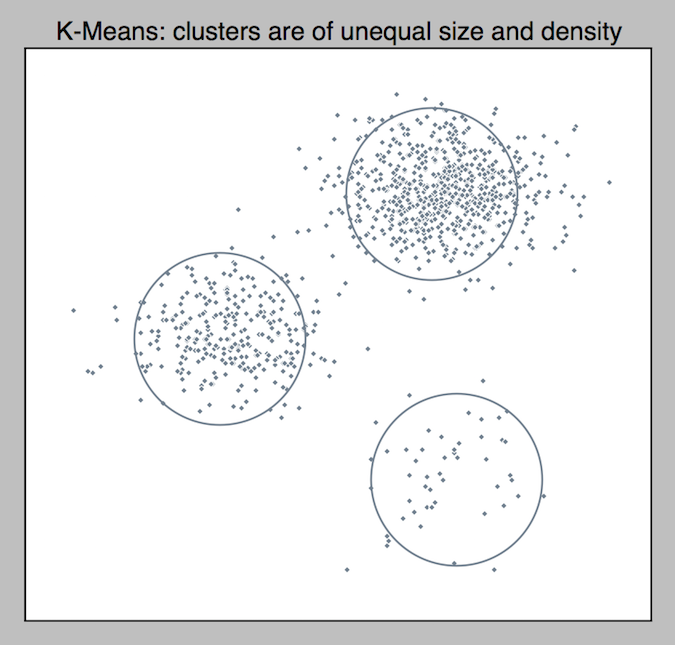
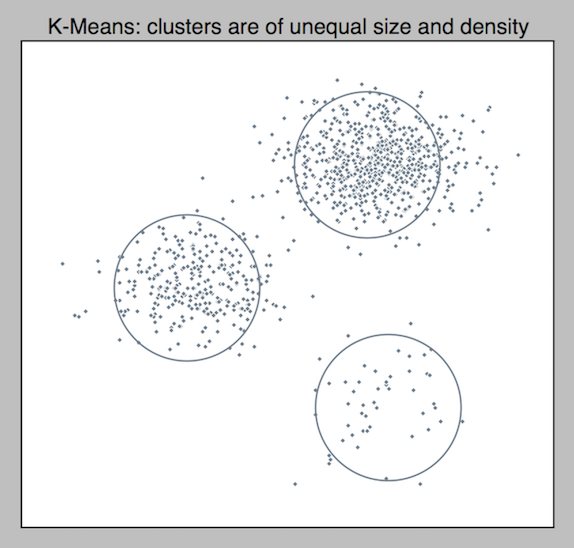
improvements and image resize further

diff --git a/_posts/2017-2-19-cluster-analysis-using-k-means-explained.md b/_posts/2017-2-19-cluster-analysis-using-k-means-explained.md
@@ -9,11 +9,11 @@ Clustering or [cluster analysis](https://en.wikipedia.org/wiki/Cluster_analysis)
 
 <!--more-->
 
-There are various models and techniques for cluster analysis. When we were building the machine learning application, I was *mistakenly searching for 'the best clustering model or technique.'* I wasn't aware that there is no universal best algorithm and the choice depends on your requirements and the dataset. There are [density-based](https://en.wikipedia.org/wiki/Cluster_analysis#Density-based_clustering), [graph based](https://en.wikipedia.org/wiki/HCS_clustering_algorithm) or [centroid based](https://en.wikipedia.org/wiki/Cluster_analysis#Centroid-based_clustering) clustering models. We finally settled on a clustering technique called k-means. This blog post is a brain-dump of everything I've learned about clustering and k-means so far.
+There are various models and techniques for cluster analysis. When I first started, I was *mistakenly searching for 'the best clustering model or technique.'* I wasn't aware that there is no universal best algorithm and the choice depends on your requirements and the dataset. There are [density-based](https://en.wikipedia.org/wiki/Cluster_analysis#Density-based_clustering), [graph based](https://en.wikipedia.org/wiki/HCS_clustering_algorithm) or [centroid based](https://en.wikipedia.org/wiki/Cluster_analysis#Centroid-based_clustering) clustering models. We finally settled on a clustering technique called k-means. This blog post is a brain-dump of everything I've learned about clustering and k-means so far.
 
 # K-means
 
-K-means is a very simple and widely used clustering technique. It divides a dataset into '*k*' clusters. The '*k*' must be supplied by the users, hence the name k-means. It is general purpose and the [algorithm is straigh-forward](http://johnloeber.com/docs/kmeans.html):
+K-means is a very simple and widely used clustering technique. It divides a dataset into '*k*' clusters. The '*k*' must be supplied by the users, hence the name k-means. It is general purpose and the [algorithm is straight-forward](http://johnloeber.com/docs/kmeans.html):
 
 > We call the process k-means clustering because we assume that there are **k** clusters, and each cluster is defined by its center point — its mean. To find these clusters, we use **Lloyd’s Algorithm**: we start out with **k** random centroids. A centroid is simply a datapoint around which we form a cluster. For each centroid, we find the datapoints that are closer to that centroid than to any other centroid. We call that set of datapoints its cluster. Then we take the mean of the cluster, and let that be the new centroid. We repeat this process (using the new centroids to form clusters, etc.) until the algorithm stops moving the centroids.[0] We do this in order to minimize the total sum of distances from every centroid to the points in its cluster — *that is our metric for how well the clusters split up the data*.
 
@@ -25,7 +25,7 @@ As far as its performance is concerned, k-means and its [variants can usually pr
 
 ## Finding 'k': number of clusters using the elbow method
 
-If you know the number of clusters before hand, you have everything you need to apply k-means. However, in practice, it's rare that the number of clusters in the dataset is known. When I was modeling, I wasn't sure if there are 3 clusters or 13 in the dataset. Luckily, there's a technique called the '[elbow method](https://en.wikipedia.org/wiki/Determining_the_number_of_clusters_in_a_data_set)' that you can use to determine the number of clusters:
+If you know the number of clusters before hand, you have everything you need to apply k-means. However, in practice, it's rare that the number of clusters in the dataset is known. When I'm modeling, I'm not sure if there are 3 clusters or 13 in the dataset. Luckily, there's a technique called the '[elbow method](https://en.wikipedia.org/wiki/Determining_the_number_of_clusters_in_a_data_set)' that you can use to determine the number of clusters:
 
 > One should choose a number of clusters so that adding another cluster doesn't give much better modeling of the data. More precisely, if one plots the percentage of variance explained by the clusters against the number of clusters, the first clusters will add much information (explain a lot of variance), but at some point the marginal gain will drop, giving an angle in the graph. The number of clusters is chosen at this point, hence the "elbow criterion".
 
@@ -49,7 +49,7 @@ K-means won't identify clusters properly if clusters have an uneven size or dens
 
 ![uneven-unlabelled]({{ site.url }}/img/kmeans/uneven-unlabelled.png)
 
-I see 3 clusters of uneven densities. Do you?
+**I see 3 clusters** of uneven densities. Do you?
 
 ![uneven-labelled-manual]({{ site.url }}/img/kmeans/uneven-labelled-manual.png)
 
@@ -57,7 +57,7 @@ Let's see how k-means does. I wrote a simple python script with scikit-learn and
 
 ![uneven-applied]({{ site.url }}/img/kmeans/uneven-applied.png)
 
-As it was expected, k-means messed up and couldn't find naturally occurring clusters that we recognized in the dataset and expected k-means to find. It identified the larger cluster correctly but mixed the smaller ones. If you have datasets where naturally occurring clusters have unequal densities, try look into [density based models](https://en.wikipedia.org/wiki/Cluster_analysis#Density-based_clustering).
+As it was expected, k-means messed up and couldn't find naturally occurring clusters that we recognized in the dataset. It identified the larger cluster correctly but mixed the smaller ones. If you have datasets where naturally occurring clusters have unequal densities, try [density based models](https://en.wikipedia.org/wiki/Cluster_analysis#Density-based_clustering).
 
 ### 2. The clusters are non-spherical
 
@@ -65,26 +65,26 @@ Let's generate a 2d dataset with non-spherical clusters.
 
 ![kmeans-spherical-unlabelled]({{ site.url }}/img/kmeans/kmeans-spherical-unlabelled.png)
 
-It's how you look at it, but I see two clusters in the dataset. Let's run k-means and see how it performs.
+It's how you look at it, but **I see 2 clusters** in the dataset. Let's run k-means and see how it performs.
 
 ![kmeans-spherical-applied]({{ site.url }}/img/kmeans/kmeans-spherical-applied.png)
 
-It's obvious: k-means couldn't correctly identify the clusters. If you have a similar dataset, try a hierarchical or density based algorithm like [spectral clustering](https://en.wikipedia.org/wiki/Spectral_clustering) or [DBSCAN](https://en.wikipedia.org/wiki/DBSCAN) that are better suited.
+Looking at the result, it's obvious that k-means couldn't correctly identify the clusters. If you have a similar dataset, try a hierarchical or density based algorithm like [spectral clustering](https://en.wikipedia.org/wiki/Spectral_clustering) or [DBSCAN](https://en.wikipedia.org/wiki/DBSCAN) that are better suited.
 
 ### 3. There are outliers in the data.
 
-If outliers are present in the dataset, they can influence clusterings results and change the outcome. The dataset should be pre-processed before applying k-means to detect and remove any outliers. There are many techniques for [outlier detection](http://www.pmg.it.usyd.edu.au/outliers.pdf) [and](https://pdfs.semanticscholar.org/49f3/d110f87ae245127d2e30049628785e95d23e.pdf) [removal](http://stackoverflow.com/questions/13989419/removing-outliers-from-a-k-mean-cluster). Unfortunately, discussing these techniques is outside the scope of this post and my knowledge.
+If outliers are present in the dataset, they can influence clusterings results and change the outcome. The dataset should be pre-processed before applying k-means to detect and remove any outliers. There are many techniques for [outlier detection](http://www.pmg.it.usyd.edu.au/outliers.pdf) [and](https://pdfs.semanticscholar.org/49f3/d110f87ae245127d2e30049628785e95d23e.pdf) [removal](http://stackoverflow.com/questions/13989419/removing-outliers-from-a-k-mean-cluster). Unfortunately, discussing these techniques is outside the scope of this post and my expertise.
 
 ## Evaluating k-means results
 
-Let's assume you have just applied k-means to a dataset. **How do you tell if k-means did its job right and identified all clusters correctly?** *If* your dataset is 2-dimensional and isn't very large, you could probably plot the results and visually inspect to assess k-means, just like how I've been showing results so far. But what if your dataset is high-dimensional, as is often the case? We are trapped and can't visualize data beyond 3-dimensions. So we need some way to evaluate result of k-means and there are a couple that I know of:
+Let's assume you have just applied k-means to a dataset. **How do you tell if k-means did its job right and identified all clusters correctly?** *If* your dataset is 2-dimensional and isn't very large, you could probably plot the results and visually inspect to assess k-means, just like how I've been showing results to you so far. But what if your dataset is high-dimensional, as is often the case? We are trapped and can't visualize data beyond 3-dimensions. So we need some way to evaluate result of k-means and there are a couple that I know of:
 
 1. Supervised evaluation
 2. Unsupervised evaluation
 
 ### 1. Supervised evaluation
 
-Supervised evaluation can be used to check the results of k-means when you have a pre-classified dataset available that can act as a benchmark. Typically, an expert would carefully process a small dataset assigning datapoints to clusters manually. This is the **gold standard** for evaluation and tells us how close the results are to the benchmark. Keep in mind that in order to use supervised evaluation, you'd need to be able to train k-means and then supply the pre-classified benchmarks to check expectations against actual results (something not possible if you are using a tool like Weka or Tableau). This page describes how to use supervised evaluation in [scikit-learn](http://scikit-learn.org/stable/modules/clustering.html#homogeneity-completeness-and-v-measure), a popular python machine learning library.
+Supervised evaluation can be used to check the results of k-means when you have a pre-classified dataset available that can act as a benchmark. Typically, an expert would carefully process a small dataset assigning datapoints to clusters manually. This is the **gold standard** for evaluation and tells us how close the results are to the benchmark. Keep in mind that in order to use supervised evaluation, you'd need to be able to train k-means and then supply the pre-classified benchmarks to check expectations against actual results (not possible if you are using a standalone app like Weka or Tableau). This [page describes how to use supervised evaluation](http://scikit-learn.org/stable/modules/clustering.html#homogeneity-completeness-and-v-measure) in scikit-learn, a popular python machine learning library.
 
 ### 2. Unsupervised evaluation
 
